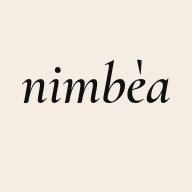
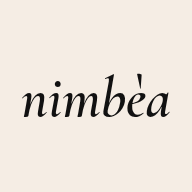
Icone dell'app: «nimbèa» centrata in verticale (#608)
Sulle icone della schermata Home (apple-touch-icon, 192, 512) la scritta stava in alto: 56 px
sopra e 84 sotto su 180. Spostata in basso della metà della differenza, ora 70/70 (74/75 su 192,
200/201 su 512); margini laterali invariati. La favicon delle schede («n») era già centrata.
Versione cache v9.

Claude-Session: https://claude.ai/code/session_014h6mpT5LYeEg9kQdWqKx26

Changed region(s): [[0.0938, 0.3125, 0.875, 0.625]]

diff --git a/src/routes/__root.tsx b/src/routes/__root.tsx
@@ -74,9 +74,9 @@ export const Route = createRootRouteWithContext<{ queryClient: QueryClient }>()(
       { rel: "stylesheet", href: appCss },
       // Installable app (Add to Home Screen) — needed on iPhone for the morning notification.
       { rel: "manifest", href: "/manifest.webmanifest" },
-      { rel: "icon", href: "/favicon.ico?v=8", sizes: "16x16 32x32 48x48" },
-      { rel: "icon", type: "image/png", sizes: "32x32", href: "/favicon-32.png?v=8" },
-      { rel: "apple-touch-icon", href: "/apple-touch-icon.png?v=8" },
+      { rel: "icon", href: "/favicon.ico?v=9", sizes: "16x16 32x32 48x48" },
+      { rel: "icon", type: "image/png", sizes: "32x32", href: "/favicon-32.png?v=9" },
+      { rel: "apple-touch-icon", href: "/apple-touch-icon.png?v=9" },
       { rel: "preconnect", href: "https://fonts.googleapis.com" },
       { rel: "preconnect", href: "https://fonts.gstatic.com", crossOrigin: "" },
       { rel: "stylesheet", href: "https://fonts.googleapis.com/css2?family=Cormorant+Garamond:ital,wght@0,300;0,400;0,500;1,300;1,400&family=Inter:wght@300;400;500;600&display=swap" },
